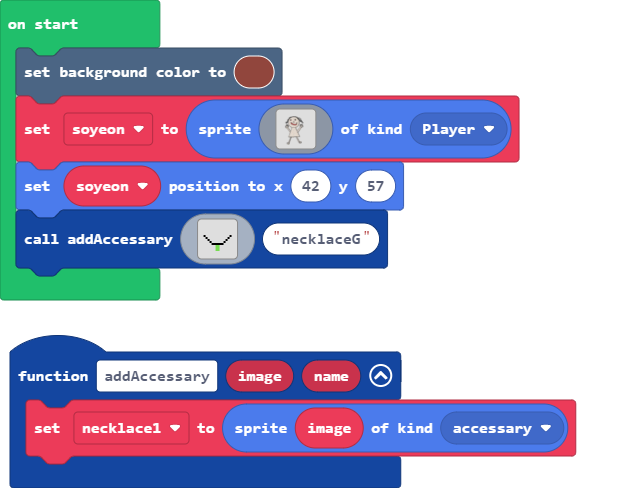
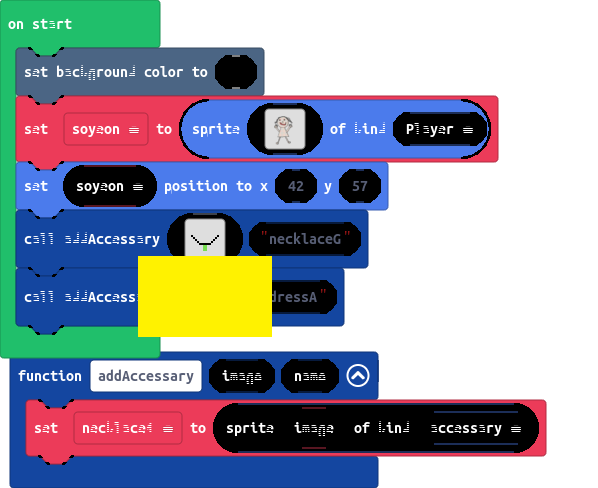
Update main.blocks, main.ts, images.g.jres, images.g.ts

diff --git a/images.g.ts b/images.g.ts
@@ -144,22 +144,41 @@ namespace myImages {
 . . . . . . . . . . . . . . . . 
 `;
             case "image3":return img`
-. . . . . . . . . . . . . . . . 
-. . . . . . . . . . . . . . . . 
-. . . . . . . . . . . . . . . . 
-. . . . . . . . . . . . . . . . 
-. . . . . . . . . . . . . . . . 
-. . . . . . . . . . . . . . . . 
-. f . . . . . . . . . . . . f . 
-. . f . . . . . . . . . . f . . 
-. . . f . . . . . . . . f . . . 
-. . . . f . . . . . . f . . . . 
-. . . . . f f f f f f . . . . . 
-. . . . . . . 7 7 . . . . . . . 
-. . . . . . . 7 7 . . . . . . . 
-. . . . . . . 7 7 . . . . . . . 
-. . . . . . . . . . . . . . . . 
-. . . . . . . . . . . . . . . . 
+......333333333.......
+......33......3.......
+......3.......3.......
+......3.......3.......
+......3.......3.......
+......3.......3.......
+......3...............
+.....3.........3......
+.....3................
+.....3................
+.....3..........3.....
+.....3..........3.....
+....3...........3.....
+....3...........3.....
+....3...........3.....
+....3............3....
+....3............3....
+....3.................
+...3..................
+...3..................
+...3..............3...
+...3..............3...
+...3..............3...
+..................3...
+..................3...
+...................3..
+...................3..
+..3................3..
+..3................3..
+.3..................3.
+.3..................3.
+.3..................3.
+.3..................3.
+.3..................3.
+3333333333333333333333
 `;
         }
         return null;

diff --git a/main.ts b/main.ts
@@ -147,3 +147,40 @@ addAccessary(img`
     . . . . . . . . . . . . . . . . 
     . . . . . . . . . . . . . . . . 
     `, "necklaceG")
+addAccessary(img`
+    ......333333333.......
+    ......33......3.......
+    ......3.......3.......
+    ......3.......3.......
+    ......3.......3.......
+    ......3.......3.......
+    ......3...............
+    .....3.........3......
+    .....3................
+    .....3................
+    .....3..........3.....
+    .....3..........3.....
+    ....3...........3.....
+    ....3...........3.....
+    ....3...........3.....
+    ....3............3....
+    ....3............3....
+    ....3.................
+    ...3..................
+    ...3..................
+    ...3..............3...
+    ...3..............3...
+    ...3..............3...
+    ..................3...
+    ..................3...
+    ...................3..
+    ...................3..
+    ..3................3..
+    ..3................3..
+    .3..................3.
+    .3..................3.
+    .3..................3.
+    .3..................3.
+    .3..................3.
+    3333333333333333333333
+    `, "dressA")
